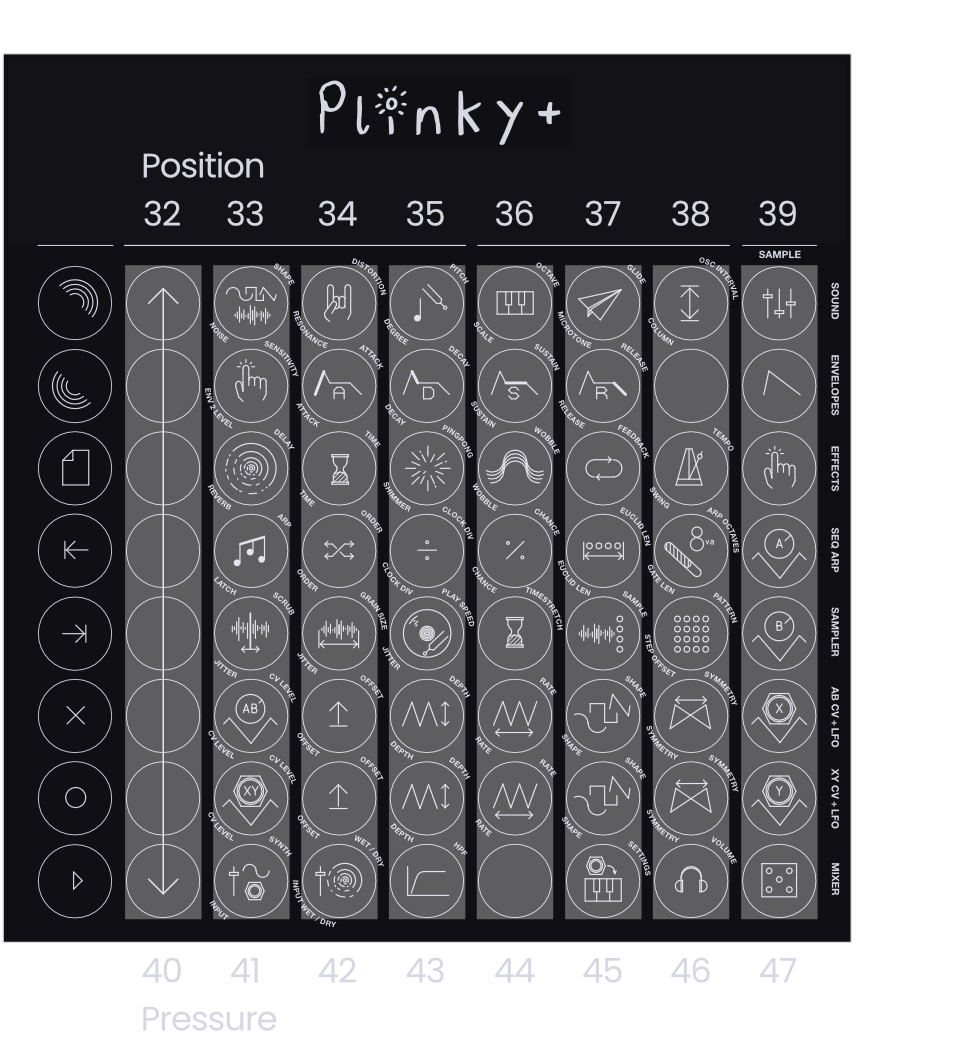
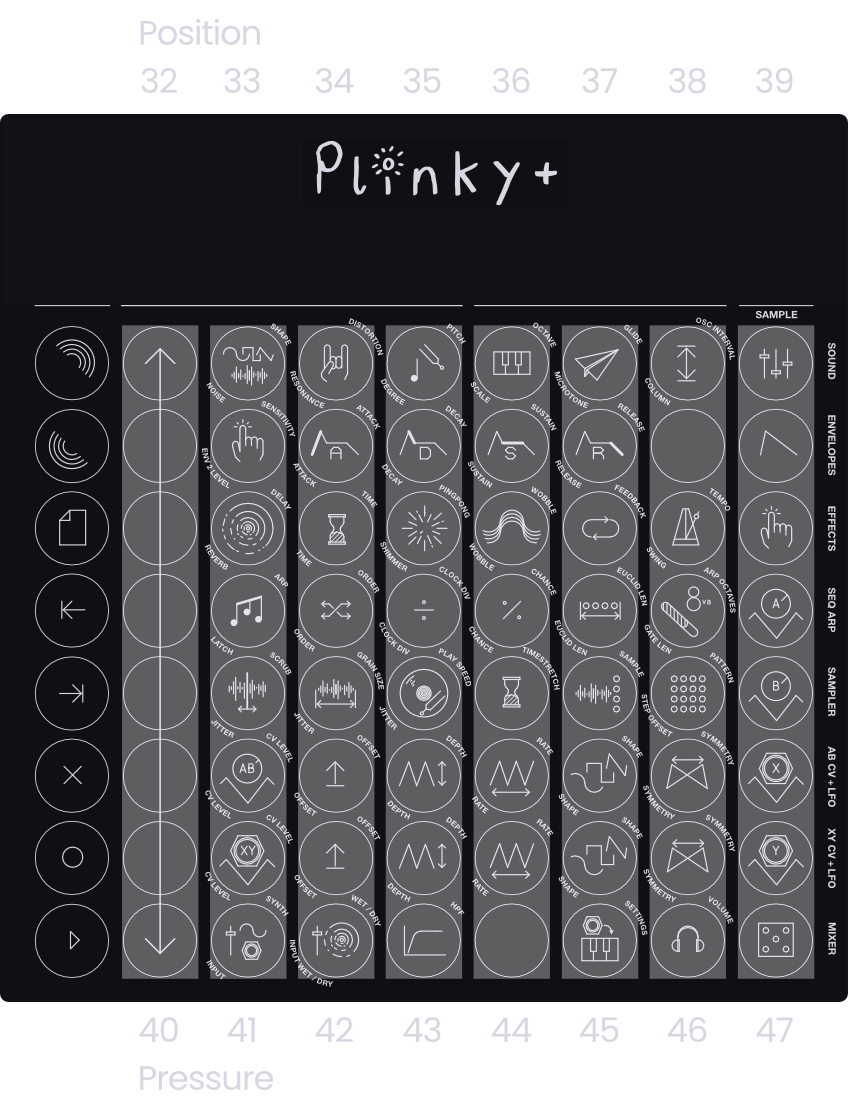
Upgraded images

diff --git a/src/routes/docs/posts/manual.md b/src/routes/docs/posts/manual.md
@@ -4,7 +4,16 @@ date: "2021-01-24T08:38:00.000Z"
 ---
 
 
-<img src="plinky_alpha_2.png" alt="Remove the back panel" style="max-width: 100%;">
+<!-- <img src="plinky_alpha_2.png" alt="Plinky Touch Surface" style="max-width: 100%;"> -->
+
+
+<div markdown class="two">
+
+<img src="plinky_alpha_2.png" alt="Plinky Touch Surface" style="max-width: 100%;">
+
+<img src="plinky+_alpha.png" alt="Plinky+ Touch Surface" style="max-width: 100%;">
+
+</div>
 
 Plinky is an 8 voice polyphonic touch synthesiser that specialises in fragile, melancholic sounds.
 
@@ -25,10 +34,48 @@ A and B also have dedicated physical offset knobs, located to the left of the sc
 
 Plinky also has global Delay, Reverb, High Pass Filter, Limiter and Saturation units along with a simple Mixer (for audio inputs), Arpeggiator, Sequencer and Sampler.
 
+<img src="/manual-images/Plinky+_0248ab.jpg" alt="Plinky+ and Plinky" style="max-width: 100%;">
+
+## Plinky+ &ndash; what's new?
+
+Plinky+ is an iteration on the original Plinky DIY Kit, designed by mmalex, upgraded in a collaborative effort between mmalex and Making Sound Machines.
+
+Plinky+ is firmware-compatible with the original Plinky, sharing the same audio engine and beautiful sound that make it a favourite among its users. Its hardware though has been greatly improved.
+
+### Plus-sized play surface   
+Relegating all jacks and connectivity to the back allows for a 22 mm spacing per touch strip, similar to the spacing of a keyboard. This makes playing chords on the touch surface easier, and playing pitch and pressure more accurate. 
+The Shift row has been rearranged from the bottom to the left, allowing for a length of 16 cm per strip.
+
+### Bigger Display
+Plinky+ has been upgraded with a much larger OLED display in crisp white on black, making it easier to read from a distance.
+
+### All the I/O
+Plinky+ has all the connectivity of its little sibling,  with the additional A B X Y CV-outs from the Expander built in. All input and output jacks have been moved to the back. 
+
+### Better sound
+The analogue output stage for Line, Euro and Headphone stereo outputs has been reworked to deliver a better sound. The new volume knob lets you set the volume directly from the front panel. The main out has been upgraded to symmetric 6.3mm jacks to make the connection with your other audio gear more robust.
+
+### Rugged Enclosure
+Plinky+ comes in a rugged black powder-coated metal enclosure. The instrument weighs just under 1kg, sitting on your desktop without moving around while playing.
+
+### Battery-operated (optional)
+While Plinky+ does not come with a built-in battery, it has the circuitry and a connector that lets you retrofit a battery pack.
+
+
 ## The Quickest Start
 Whether you are completely new to Plinky, or just looking for a quick refresher, here is a 10 minute guide to playing Plinky. If your Plinky comes fresh out of the box, you should [calibrate](#calibration) it, then return here.
 
+
 ### You can play anywhere on the surface
+
+<div markdown class="two">
+
+<img src="/manual-images/Plinky_Play_Surface.png" alt="Plinky MIDI CCs Out" style="max-width: 100%;">
+
+<img src="/manual-images/Plinky+_Play_Surface.png" alt="Plinky+ MIDI CCs Out" style="max-width: 100%;">
+
+</div>
+
 except for these pads - they are reserved for the SHIFT functions.
 
 <div markdown>
@@ -198,7 +245,15 @@ The two audio inputs, both 3.5 mm TRS stereo jacks, are meant for effect process
 You are now ready to Plink.
 
 ### Play Plinky!
-Each of the center pads plays a note. Plinky is either playing a blank preset, which is a 4 voice unison Saw wave for each of the 'strings', or you are playing one of the factory presets. Plinky can play 8 voices polyphony. Enjoy!
+Each of the center pads plays a note. Plinky is either playing a blank preset, which is a 4 voice unison Saw wave for each of the 8 'strings', or you are playing one of the factory presets. Plinky can play 8 voices polyphony. Enjoy!
+
+<div markdown class="two">
+
+<img src="/manual-images/Plinky_Play_Surface.png" alt="Plinky MIDI CCs Out" style="max-width: 100%;">
+
+<img src="/manual-images/Plinky+_Play_Surface.png" alt="Plinky+ MIDI CCs Out" style="max-width: 100%;">
+
+</div>
 
 ### Changing the Sound
 
@@ -212,8 +267,6 @@ Each of the center pads plays a note. Plinky is either playing a blank preset, w
 To enter parameter edit mode, hold down a shift button on the top left, then select one of the icon pads. The LEDs light up while you have your fingers held down on the pads. Then release all your fingers. While in parameter edit mode, both the shift button and the icon pads' LEDs will pulse. 
 
 The screen always shows the device you are editing in the upper half and the parameter in the lower half. The pads with blue instead of white LEDs are the shift / transport / mode buttons - you can find them the bottom row on Plinky and the leftmost column on Plinky+. 
-
-
 
 <div markdown class="two">
 
@@ -296,32 +349,32 @@ To remove a parameter's modulation, simply repeat the steps as described above, 
 
 # Plinky hardware
 
-Let’s take a look at Plinky’s inputs and outputs on the top and bottom edges. They have identical functions, and both can be used. 
+Let’s take a look at Plinky’s inputs and outputs. They are located on the top and bottom edges, as well as the two columns of jacks on the left and right of the front panel.
 
 <img src="/manual-images/Plinky_In_Out_Eurorack.png" alt="Plinky Inputs and Outputs - Eurorack" style="max-width: 100%;">
 
-On each side you find:
+The inputs and outputs on the top and bottom edges have identical functions, and both can be used simultaneously. On each side you find:
 
-#### Audio in (line level stereo)
+### Audio in (Line level stereo)
 A TRS, 3.5 mm audio jack. Useful for two things. Plinky’s sampler can sample 65 seconds of incoming audio. Additionally, Plinky can act as a mixer with effects (Reverb and Delay), where each of Plinky’s audio inputs are mixed with Plinky’s internal audio. The individual inputs are mixed at unity gain, but the levels of the summed inputs and the internal sounds can be set separately. 
 
 > Remember, if you have Plinky V2 (with the blue main board) you can and absolutely should try running Eurorack signals through Line level inputs to enloy that crunchy analog saturation. 
 
-#### USB
+### USB
 The USB jack is either USB Micro-b on v1/v2, or USB-C on v3. It can power Plinky.  Warning -- do not attempt to power Plinky with both USB and Eurorack simultaneously. 
 
-#### Audio out (line level stereo)
+### Audio out (Line level stereo)
 A TRS 3.5 mm audio jack that outputs the mixed output at line level. 
 
-#### TRS MIDI Out (v3 hardware only)
+### TRS MIDI Out (V3 hardware only)
 TRS 3.5 mm jack - MIDI Type-A
 
-#### TRS MIDI In (v3 hardware only)
+### TRS MIDI In (V3 hardware only)
 TRS 3.5 mm jack - autosensing - accepts both MIDI Type-A and Type-B
 
 The input circuit used is the [LPZW.modules](https://leipzigwest.org/) [Autocrossover circuit](https://github.com/kay-lpzw/LPZW_TRS_MIDI/). Thank you Kay!
 
-#### Columns of Jacks
+### Columns of Jacks
 
 The column of jacks on the left of the front panel are all inputs. The column of jacks on the right are all outputs. Their individual functions are described in detail in the [Eurorack](#eurorack-and-cv) chapter. Here is a quick overview:
 
@@ -351,6 +404,8 @@ Please read the [Eurorack and CV](#eurorack-and-cv) chapter for more details.
 # Plinky+ hardware
 
 Plinky+ has all the connectivity of its little sibling, with the additional A B X Y CV-outs from the [Expander](../docs/expander-manual) built in. All input and output jacks have been moved to the back panel. 
+
+<img src="/manual-images/Plinky+_In_Out_Labels.png" alt="Plinky+ Inputs and Outputs - Eurorack" style="max-width: 100%;">
 
 ### Audio Inputs
 

diff --git a/src/routes/docs/posts/midi.md b/src/routes/docs/posts/midi.md
@@ -283,4 +283,11 @@ In addition to that,
 - the finger position for each column is sent on CC 32 - 39, 
 - and the pressure for each column is sent on CC 40 - 47.
 
-<img src="/expander-manual/Plinky_Expander_MIDI-CCs_Out.png" alt="Plinky MIDI CCs Out" style="max-width: 100%;">
+
+<div markdown class="two">
+
+<img src="/manual-images/Plinky_MIDI-CCs_Out.png" alt="Plinky MIDI CCs Out" style="max-width: 100%;">
+
+<img src="/manual-images/Plinky+_MIDI-CCs_Out.png" alt="Plinky+ MIDI CCs Out" style="max-width: 100%;">
+
+</div>
